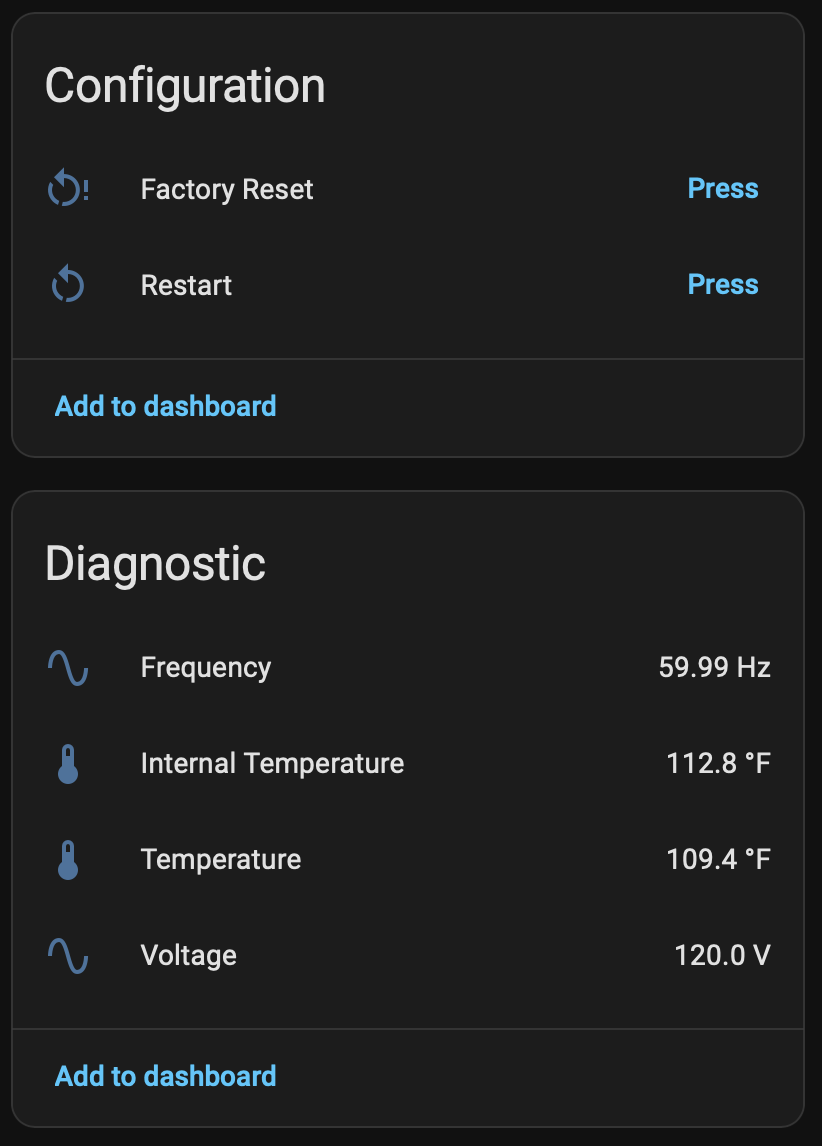
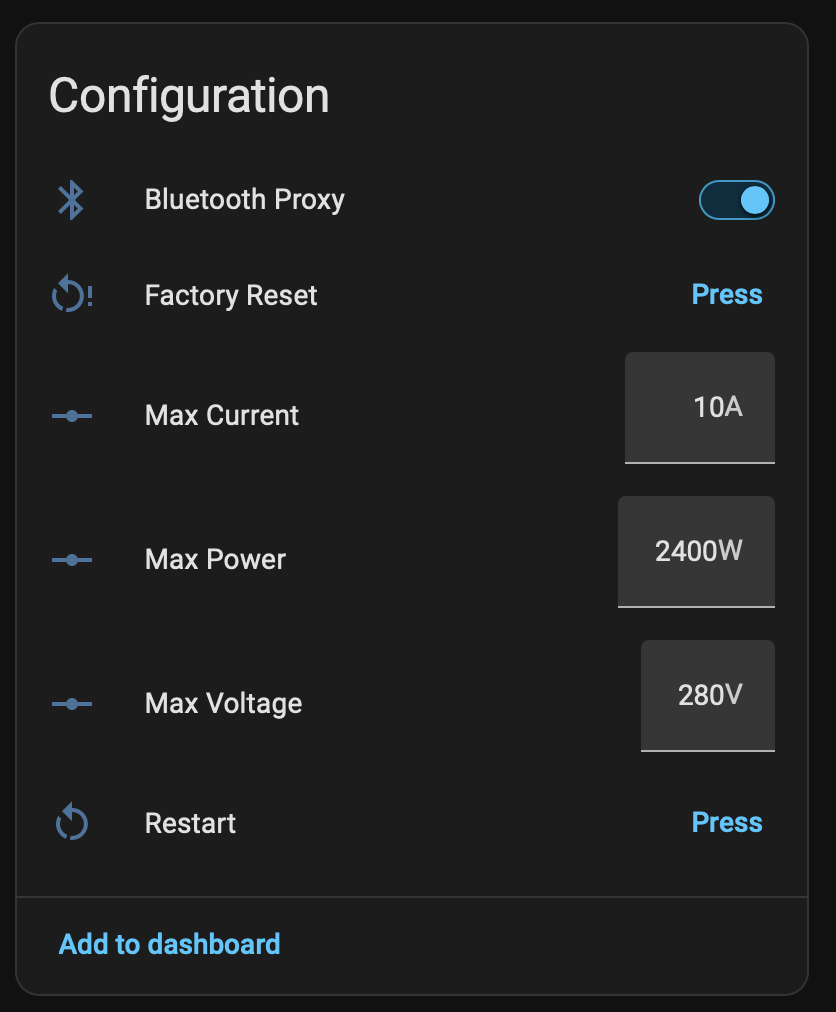
docs: update 2PM screenshots with linking, protections, and the Bluetooth proxy

diff --git a/docs/ADOPTION.md b/docs/ADOPTION.md
@@ -51,14 +51,17 @@ The 1PM adds live metering. Current, power, and energy sit with the controls, an
   <img src="images/ha-esphome-shelly-1pm-gen4-2.png" alt="Shelly 1PM Gen4 in Home Assistant: configuration and diagnostic entities including voltage and frequency" width="253">
 </p>
 
-The 2PM doubles the controls, with linking, mode, and pulse length selects per relay, and meters each output separately. Its faults are per channel, `Overpower 1` and `2` and `Overcurrent 1` and `2`, with `Overvoltage` and `Overheating` shared. Shown here with a 143W resistive load on O2:
+The 2PM doubles the controls, with linking, mode, and pulse length selects per relay, and meters each output separately. Its faults are per channel, `Overpower 1` and `2` and `Overcurrent 1` and `2`, with `Overvoltage` and `Overheating` shared. Shown here with relay 1 on and no load connected:
 
 <p>
-  <img src="images/ha-esphome-shelly-2pm-gen4-1.png" alt="Shelly 2PM Gen4 in Home Assistant: device info and the two relays with their mode and pulse length selects" width="700">
+  <img src="images/ha-esphome-shelly-2pm-gen4-1.png" alt="Shelly 2PM Gen4 in Home Assistant: device info and the two relays, relay 1 on, each with its linking, mode, and pulse length selects" width="700">
 </p>
 <p>
-  <img src="images/ha-esphome-shelly-2pm-gen4-2.png" alt="Shelly 2PM Gen4 in Home Assistant: per-channel current, energy, and power sensors with channel 2 under load, plus the button and switch inputs" width="330">
-  <img src="images/ha-esphome-shelly-2pm-gen4-3.png" alt="Shelly 2PM Gen4 in Home Assistant: configuration and diagnostic entities including frequency, both temperatures, and voltage" width="326">
+  <img src="images/ha-esphome-shelly-2pm-gen4-2.png" alt="Shelly 2PM Gen4 in Home Assistant: per-channel current, energy, and power sensors with no load, Overcurrent 1 and 2, Overpower 1 and 2, Overheating, and Overvoltage all OK, plus the button and switch inputs" width="300">
+</p>
+<p>
+  <img src="images/ha-esphome-shelly-2pm-gen4-3.png" alt="Shelly 2PM Gen4 in Home Assistant: the Bluetooth Proxy switch, Max Current 10A, Max Power 2400W, Max Voltage 280V, and the restart and factory reset buttons" width="273">
+  <img src="images/ha-esphome-shelly-2pm-gen4-4.png" alt="Shelly 2PM Gen4 in Home Assistant: diagnostic entities, free memory, largest free memory block, frequency, both temperatures, and voltage" width="318">
 </p>
 
 The EM Mini has the 1PM's metering entities and a `Button` sensor, with no relay, selects, or protections. `RTC Time` is diagnostic and shows what the battery-backed clock holds, or `not set` if it lost power. Shown here with a 141W resistive load through the CT clamp, and with the `Bluetooth Proxy` switch and memory sensors every model has from 1.4.0:

diff --git a/README.md b/README.md
@@ -62,16 +62,16 @@ Pin assignments for every model, and the hardware findings behind them, are in t
 Stock device pages, no custom cards.
 
 <p align="center">
-  <img src="docs/images/ha-esphome-shelly-2pm-gen4-1.png" alt="Shelly 2PM Gen4 in Home Assistant: device info and both relays, each with its own mode and pulse length select" width="700">
+  <img src="docs/images/ha-esphome-shelly-2pm-gen4-1.png" alt="Shelly 2PM Gen4 in Home Assistant: device info and both relays, each with its own linking, mode, and pulse length select" width="700">
 </p>
 
-*The 2PM doubles the controls: two relays, each with its own mode and pulse length.*
+*The 2PM doubles the controls: two relays, each with its own linking, mode, and pulse length.*
 
 <p align="center">
-  <img src="docs/images/ha-esphome-shelly-2pm-gen4-2.png" alt="Shelly 2PM Gen4 per-channel current, power, and energy sensors with channel 2 under load, plus the button and switch inputs" width="440">
+  <img src="docs/images/ha-esphome-shelly-2pm-gen4-2.png" alt="Shelly 2PM Gen4 per-channel current, power, and energy sensors with no load, the per-channel Overcurrent and Overpower fault sensors with Overheating and Overvoltage, plus the button and switch inputs" width="300">
 </p>
 
-*And it meters each output separately. Here channel 2 carries a 143W load while channel 1 sits idle. Energy is a primary sensor on every metering model, so it feeds the Energy Dashboard.*
+*And it meters each output separately, with Overpower and Overcurrent faults per channel. Energy is a primary sensor on every metering model, so it feeds the Energy Dashboard.*
 
 <p align="center">
   <img src="docs/images/ha-esphome-shelly-1pm-gen4-2.png" alt="Shelly 1PM Gen4 diagnostic entities: voltage, mains frequency, and both temperatures" width="360">
